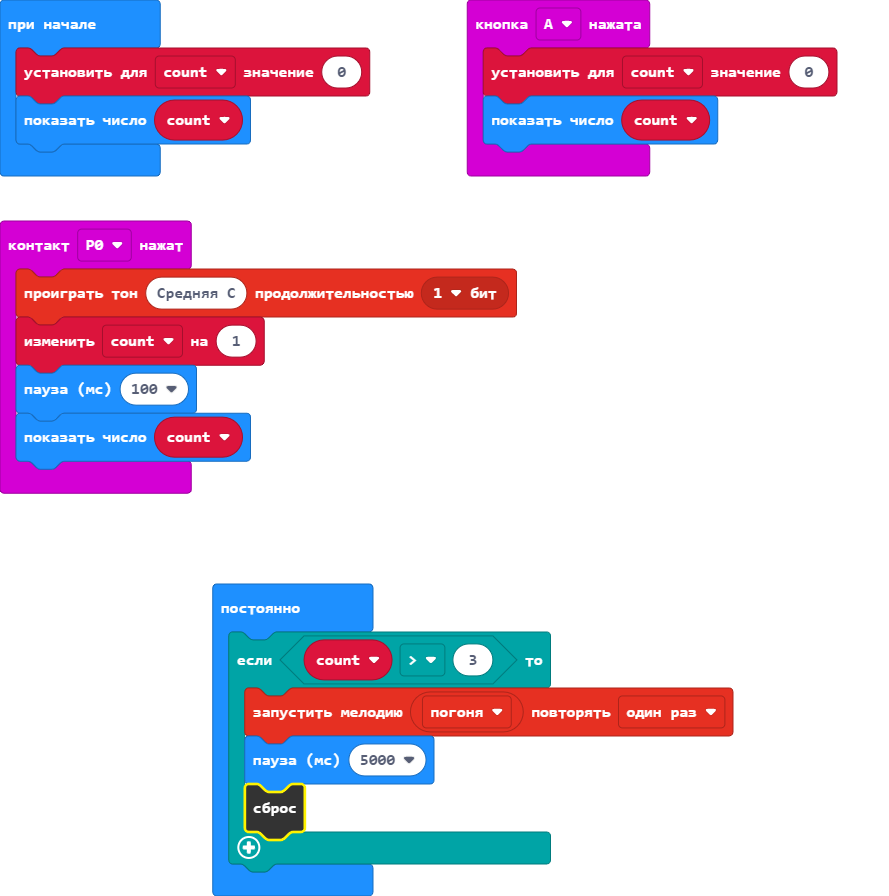
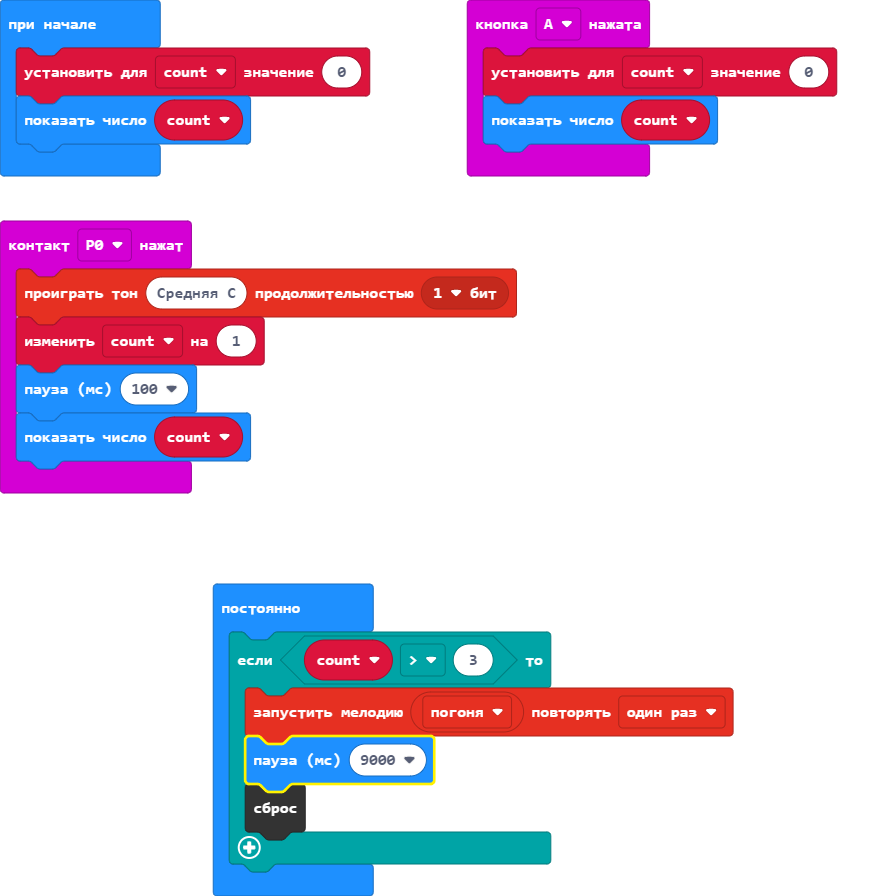
Update main.blocks, main.ts

diff --git a/main.ts b/main.ts
@@ -14,7 +14,7 @@ basic.showNumber(count)
 basic.forever(function () {
     if (count > 3) {
         music.startMelody(music.builtInMelody(Melodies.Chase), MelodyOptions.Once)
-        basic.pause(5000)
+        basic.pause(9000)
         control.reset()
     }
 })
